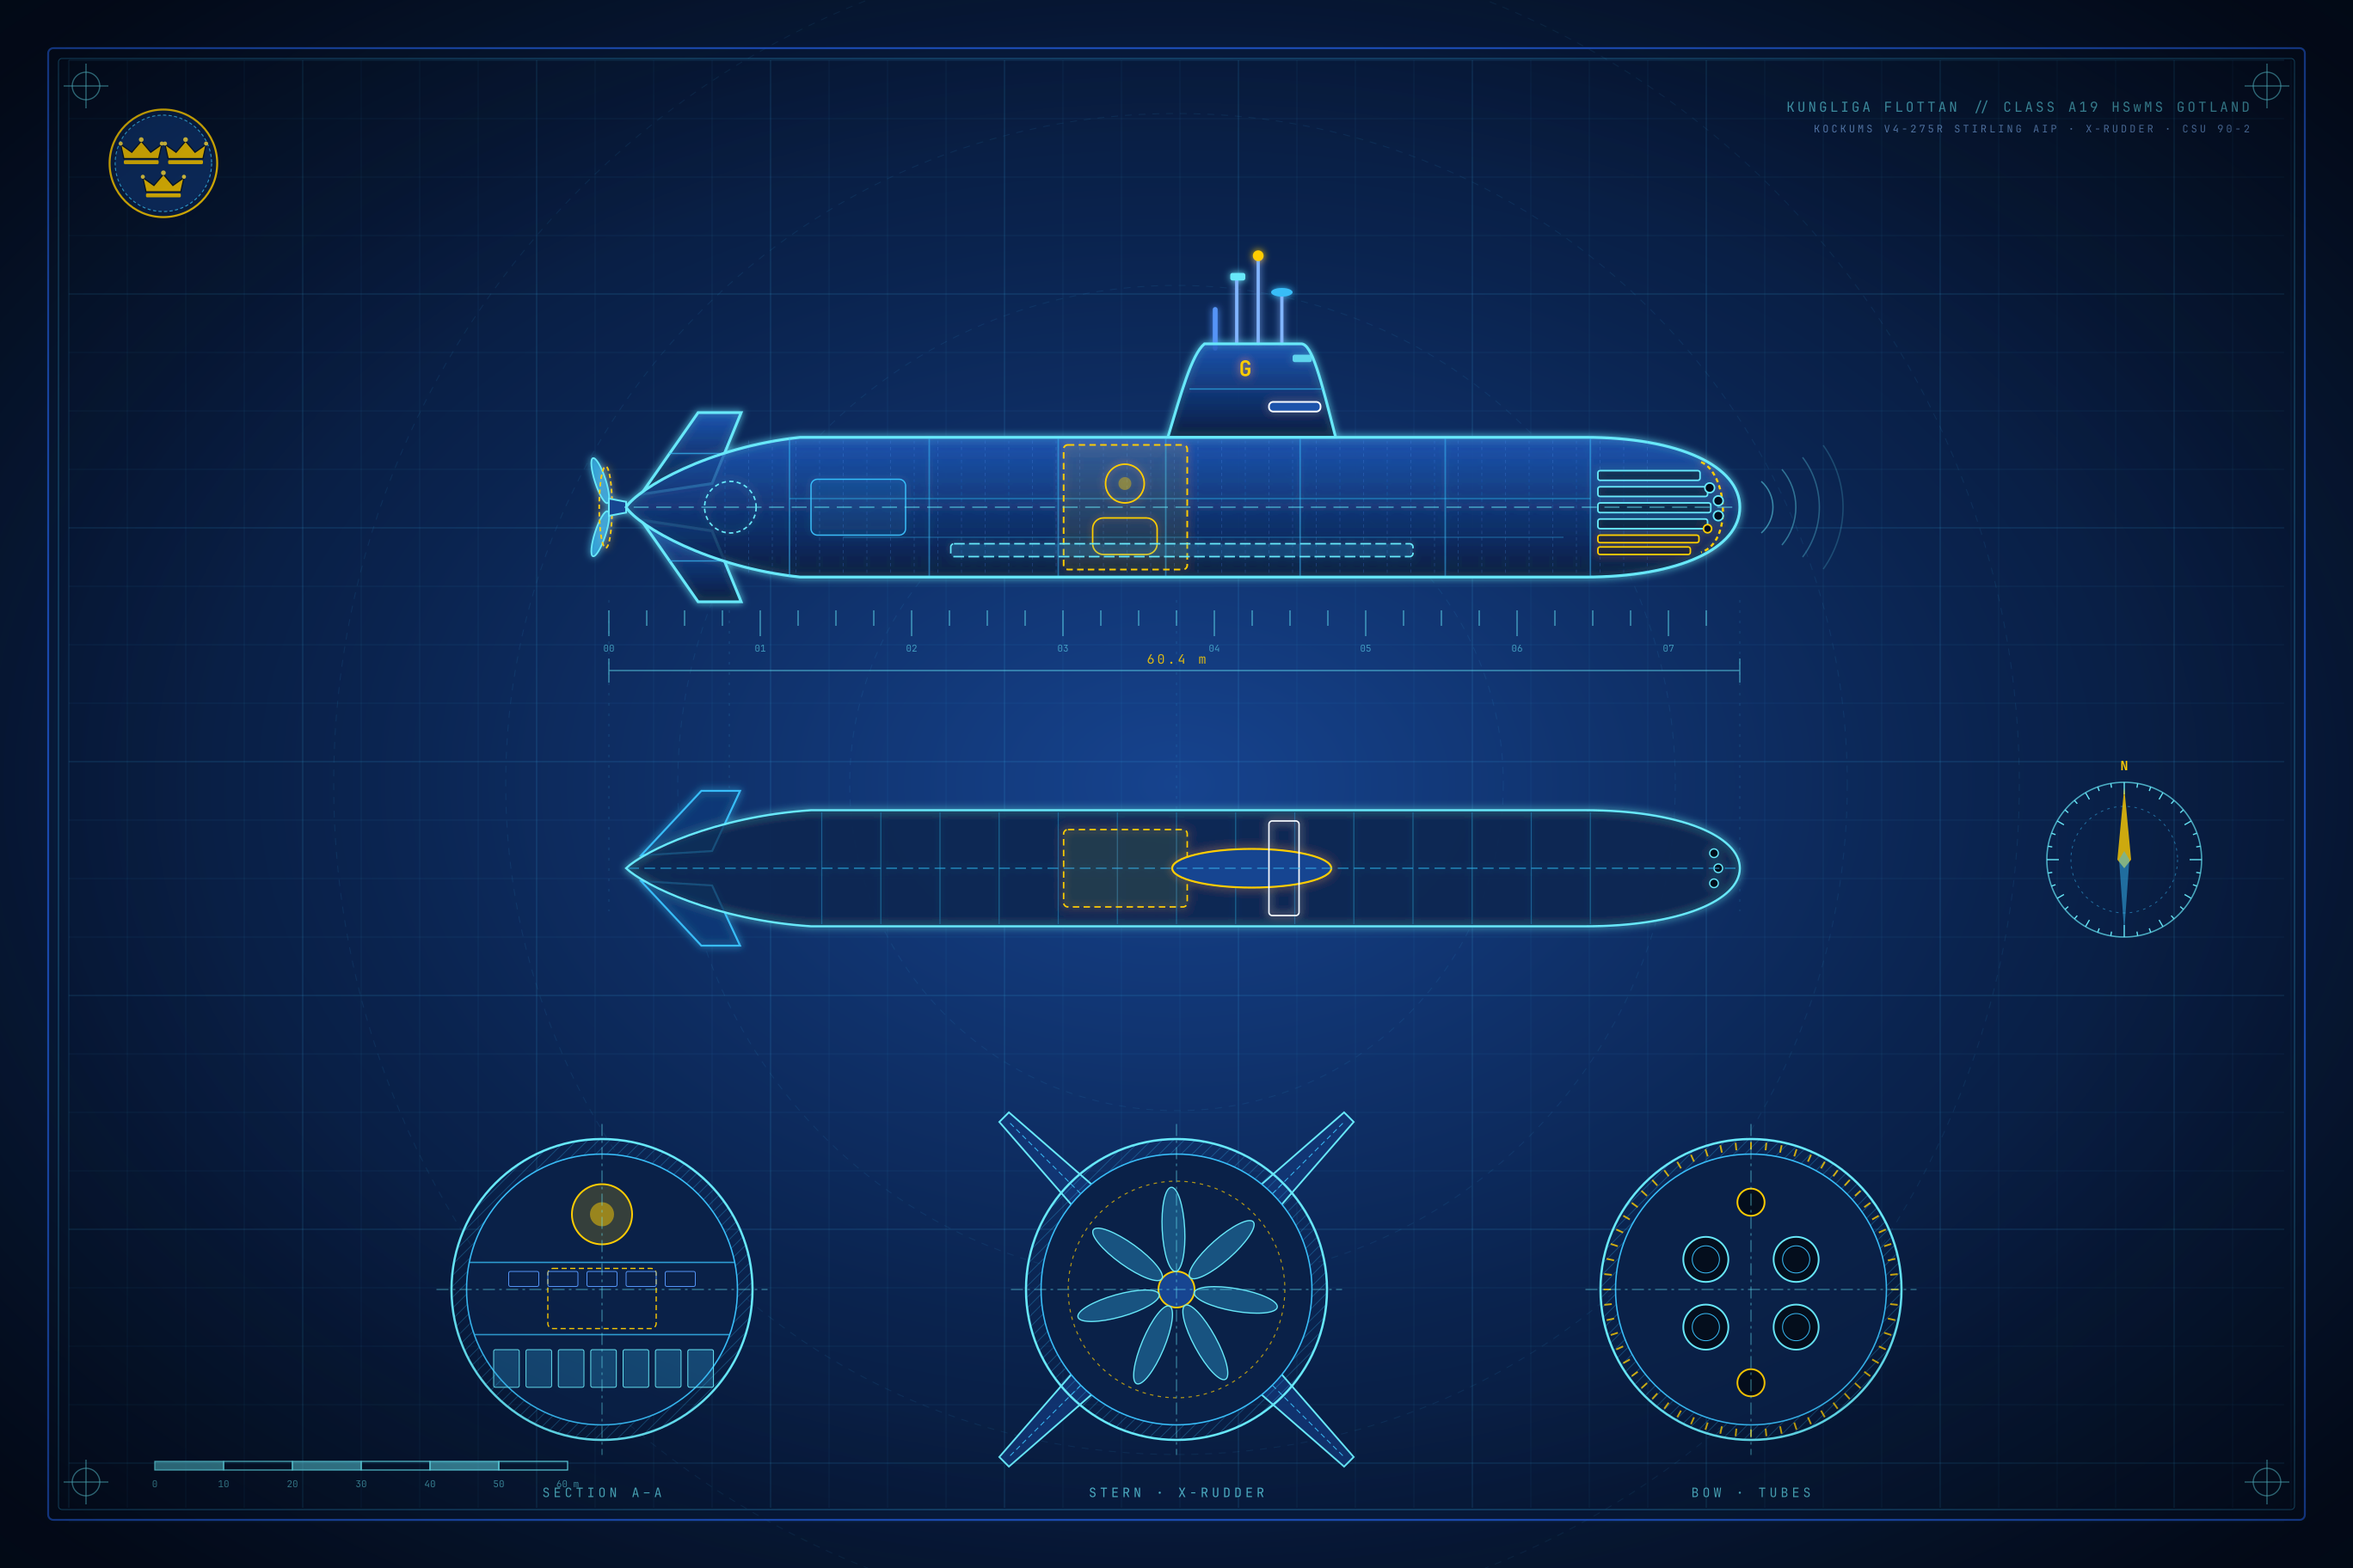
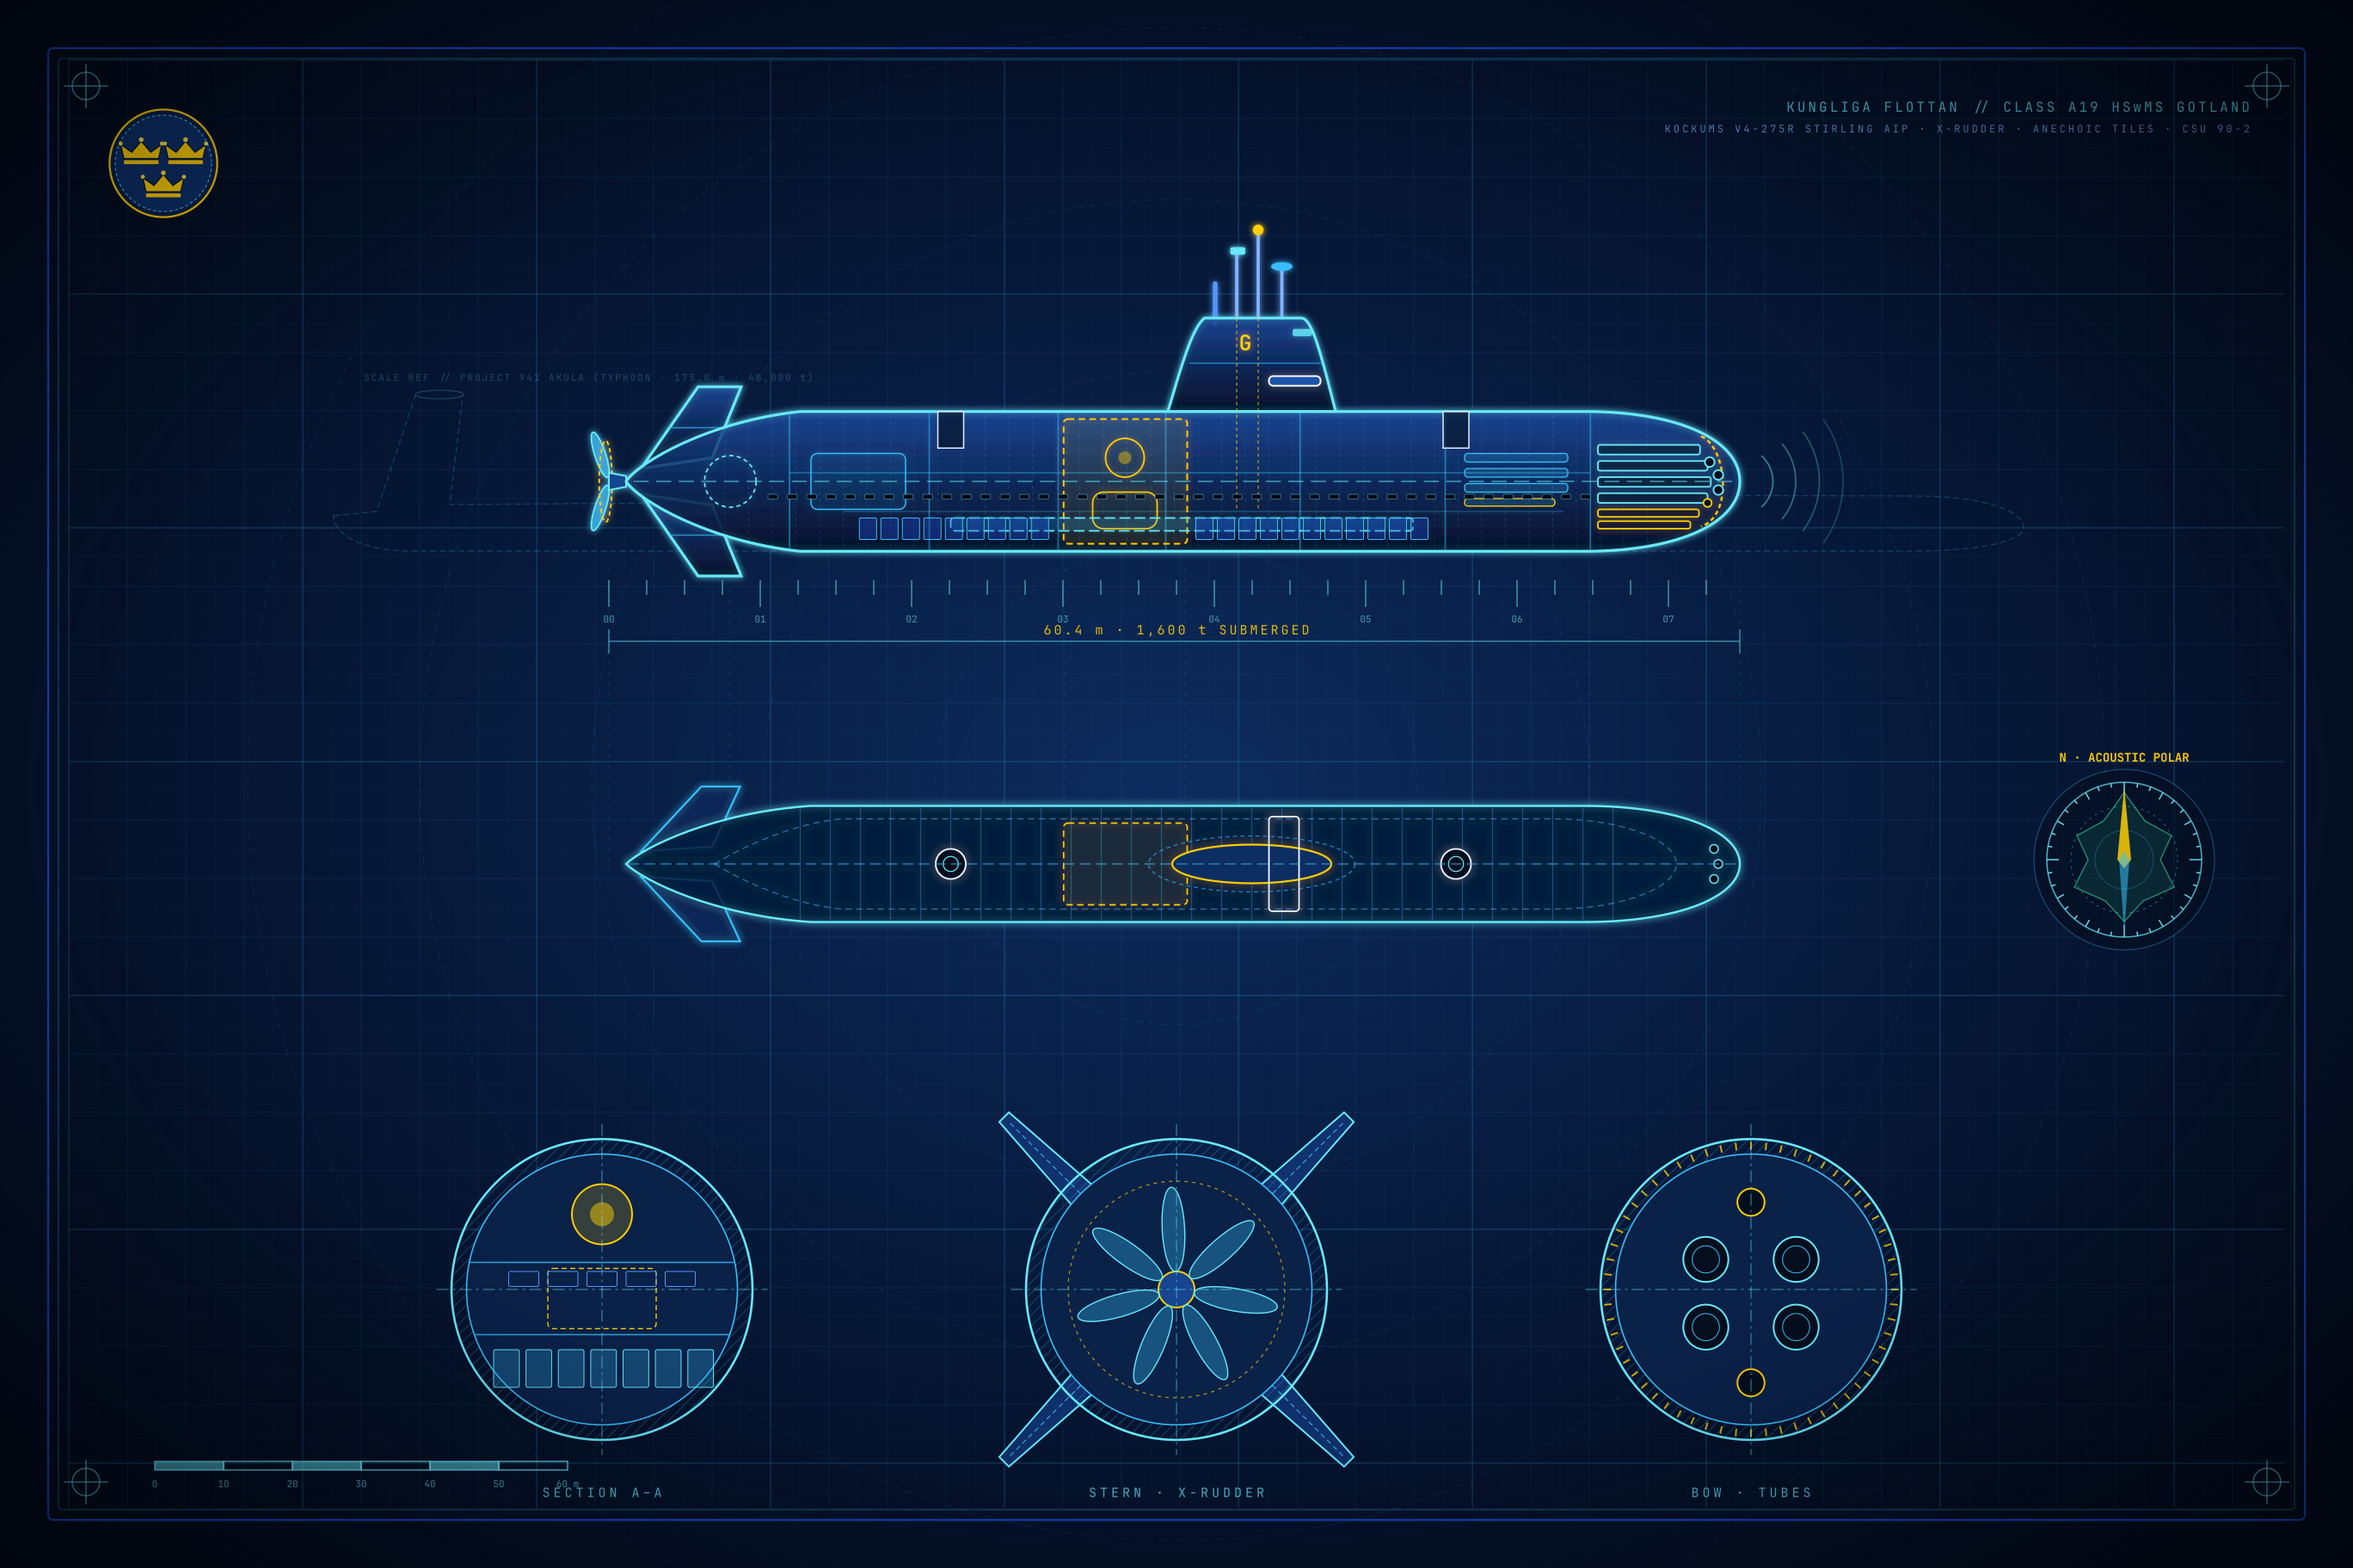
Enhance all 4 backgrounds with Cold War submarine engineering & bluedark detail

Changed region(s): [[0.1553, 0.1562, 0.9631, 0.8438]]

diff --git a/README.md b/README.md
@@ -47,14 +47,14 @@ All four custom wallpapers are rendered at native `2736×1824` (3:2 Retina / Wid
         <img src="backgrounds/01-stockholm-archipelago-night-patrol.png" alt="01 — Stockholm Archipelago Night Departure" width="100%">
       </a>
       <br><b>01 · Stockholm Archipelago Night Departure (Default)</b>
-      <br><i>HSwMS Gotland</i> sailing out on the surface at night through <i>Stockholms skärgård</i> under the Milky Way and northern aurora, past pine-covered granite skerries, a glowing Swedish sector lighthouse (<i>ledfyr</i>), a lit archipelago ferry, and moonlit Baltic waters.
+      <br><i>HSwMS Gotland</i> sailing out on the surface at night through <i>Stockholms skärgård</i> in deep Cold War bluedark steel &amp; anechoic tile detail — featuring lower-hull free-flooding limber slots, sculpted turtleback sail fairings, white escape-trunk deck rings, cold exhaust mist drifting past the bridge, a naval escort tug with lattice radar mast, distant Muskö shipyard cranes, and a silver-blue cratered moon.
     </td>
     <td width="50%" align="center">
       <a href="backgrounds/02-hms-gotland-tactical-blueprint.png">
         <img src="backgrounds/02-hms-gotland-tactical-blueprint.png" alt="02 — HSwMS Gotland Naval Blueprint" width="100%">
       </a>
-      <br><b>02 · HSwMS Gotland (A19) Naval Blueprint</b>
-      <br>Detailed starboard elevation, top-down plan, and three cross-section views (<code>SECTION A–A</code> Stirling AIP &amp; battery deck, <code>STERN · X-RUDDER</code> 4-fin X-rudder &amp; 7-blade skewback propeller, and <code>BOW · TUBES</code> 4× 533mm + 2× 400mm torpedo tubes).
+      <br><b>02 · HSwMS Gotland (A19) Naval Intelligence Blueprint</b>
+      <br>Deep bluedark naval engineering &amp; intelligence plate with internal torpedo reload skids, battery &amp; Stirling AIP compartments, escape trunks, acoustic polar signature rose, a ghosted Cold War Project 941 Typhoon (<i>Red October</i>, 175 m) scale comparison profile, and three cross-sections (<code>SECTION A–A</code>, <code>STERN · X-RUDDER</code>, and <code>BOW · TUBES</code>).
     </td>
   </tr>
   <tr>
@@ -62,15 +62,15 @@ All four custom wallpapers are rendered at native `2736×1824` (3:2 Retina / Wid
       <a href="backgrounds/03-baltic-sonar-silent-running.png">
         <img src="backgrounds/03-baltic-sonar-silent-running.png" alt="03 — Baltic Thermocline Silent Running" width="100%">
       </a>
-      <br><b>03 · Baltic Thermocline — Silent Running</b>
-      <br>Deep Baltic Sea underwater scene below the halocline with a 17th-century sunken warship wreck on the seabed, bioluminescent marine life, and a passive/active sonar sweep.
+      <br><b>03 · Baltic Thermocline — Silent Running (<i>Hunt for Red October</i> Vibe)</b>
+      <br>Deep abyssal bluedark cat-and-mouse scene below the halocline: <i>HSwMS Gotland</i> in full anechoic-tiled stealth trim with red-rigged conn windows and CSU 90-2 flank hydrophone staves pinging a massive Project 941 Typhoon-class submarine lurking in the distant sonar shadow above a sunken warship and tethered naval mine.
     </td>
     <td width="50%" align="center">
       <a href="backgrounds/04-dawn-torpedo-run.png">
         <img src="backgrounds/04-dawn-torpedo-run.png" alt="04 — Periscope Convoy Torpedo Run" width="100%">
       </a>
-      <br><b>04 · Periscope Convoy Torpedo Salvo (Torped 62)</b>
-      <br>Attack periscope view at Baltic dawn with stadia rangefinding crosshairs locked onto a 4-ship naval convoy (flagship battleship, heavy cruiser, and two escort frigates) as a two-torpedo <i>Torped 62</i> salvo streaks submerged beneath the waves with perspective cavitation wakes aligned onto the targets.
+      <br><b>04 · Periscope Convoy Torpedo Salvo (Cold War Bluedark Twilight)</b>
+      <br>Attack periscope view in moody Cold War bluedark twilight with optical lens condensation droplets and stadia rangefinding crosshairs locked onto a 4-ship naval surface group as a two-torpedo <i>Torped 62</i> salvo streaks submerged beneath the dark-blue swell.
     </td>
   </tr>
 </table>
